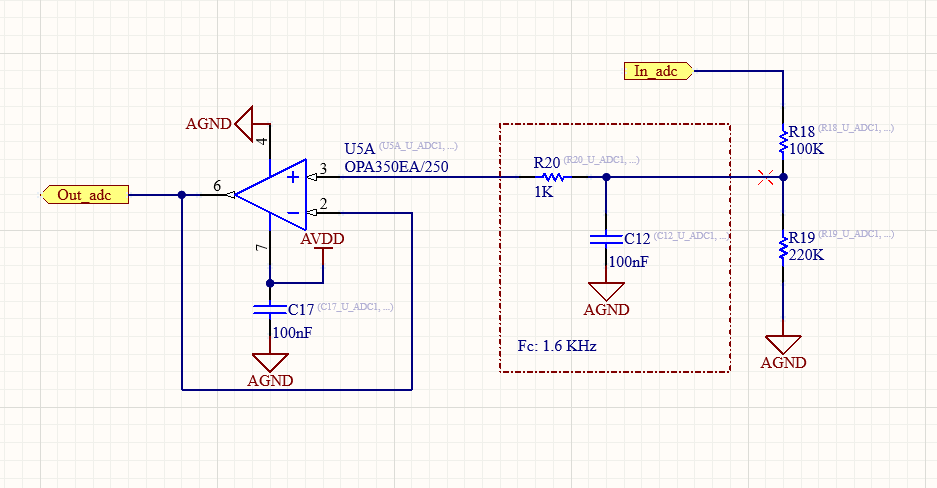
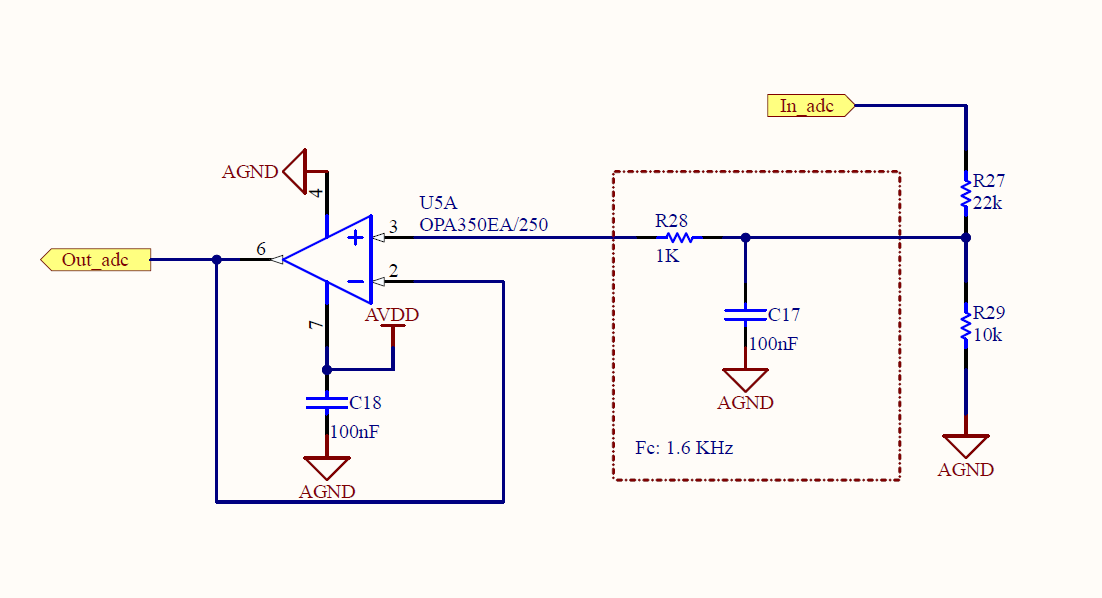
fix: corrige nombre del archivo de imagen del stackup

diff --git a/informe/main.tex b/informe/main.tex
@@ -275,20 +275,53 @@ El diseño físico y eléctrico de esta interfaz se fundamenta en las siguientes
     \item \textbf{Sensado de VBUS:} La línea VBUS se conecta al pin de entrada analógica/digital \texttt{PA9} del microcontrolador a través de una resistencia en serie de $10\text{ k}\Omega$. Aprovechando que el pin \texttt{PA9} es tolerante a $5\text{ V}$, esta resistencia actúa como un limitador de corriente para salvaguardar la entrada ante picos de tensión o transitorios en la línea de alimentación USB, permitiendo al firmware detectar la presencia del host y gestionar el stack de comunicaciones de forma dinámica.
 \end{enumerate}
 
+\subsubsection{Cálculo de Impedancia del Par Diferencial USB}
+
+Para asegurar la integridad de la señal en el bus de datos USB, hemos realizado el cálculo geométrico del par diferencial utilizando el motor de cálculo \textit{SIMBEOR} integrado en el gestor de pila de capas (\textit{Layer Stack Manager}) de Altium Designer. 
+
+\begin{figure}[H]
+    \centering
+    \includegraphics[width=0.75\linewidth]{Imagenes/diffPair_USB.png}
+    \caption{Cálculo y simulación de la impedancia diferencial para el bus USB en Altium Designer.}
+    \label{fig:diffpair_usb}
+\end{figure}
+
+Tomando como base la pila de capas de $1.6\text{ mm}$ de \textit{Lab Circuits}, los parámetros geométricos y eléctricos que definen el par diferencial de datos USB ($90\,\Omega$) se muestran en la Tabla~\ref{tab:usb_diffpair_params}:
+
+\begin{table}[H]
+\centering
+\small
+\begin{tabular}{|l|c|}
+\hline
+\textbf{Parámetro del Par Diferencial} & \textbf{Valor de Diseño} \\ \hline
+Impedancia Objetivo ($Z_{diff}$) & $90\,\Omega$ \\ \hline
+Tolerancia de Diseño & $15\%$ \\ \hline
+Ancho de Pista ($W1$ / $W2$) & $0.19\text{ mm}$ ($\approx 7.5\text{ mils}$) \\ \hline
+Separación de Pistas (Gap, $G$) & $0.15\text{ mm}$ ($\approx 6\text{ mils}$) \\ \hline
+Grosor de la Máscara de Soldadura ($C1$ / $C2$) & $0.0254\text{ mm}$ ($1\text{ mil}$) \\ \hline
+\textbf{Impedancia Diferencial Calculada ($Z_{diff}$)} & $\mathbf{94.91\,\Omega}$ \\ \hline
+Desviación de Impedancia Obtenida & $5.46\%$ (dentro de límites) \\ \hline
+Retardo de Propagación (Delay) & $5.90\text{ ns/m}$ \\ \hline
+\end{tabular}
+\caption{Parámetros de diseño calculados para el par diferencial USB de 90 Ohm.}
+\label{tab:usb_diffpair_params}
+\end{table}
+
 \subsubsection{Pines asignados para el puerto USB}
 
 El mapeo de pines entre el microcontrolador y el conector USB se detalla a continuación:
 
 \begin{table}[H]
 \centering
-\begin{tabular}{|c|c|l|l|}
+\small
+\begin{tabularx}{\textwidth}{|c|c|l|X|}
 \hline
 \textbf{Señal} & \textbf{Pin MCU} & \textbf{Señal Lógica} & \textbf{Función del Periférico} \\ \hline
 USB\_VBUS & PA9 & OTG\_FS\_VBUS & Entrada de detección de presencia de tensión de VBUS \\ \hline
 USB\_ID & PA10 & OTG\_FS\_ID & Línea de detección de modo Host/Device (OTG) \\ \hline
 USB\_DM & PA11 & OTG\_FS\_DM & Línea de datos diferencial negativa (D-) \\ \hline
 USB\_DP & PA12 & OTG\_FS\_DP & Línea de datos diferencial positiva (D+) \\ \hline
-\end{tabular}
+\end{tabularx}
 \caption{Asignación de pines para la interfaz Micro-USB.}
 \label{tab:usb_pines}
 \end{table}
@@ -393,7 +426,7 @@ La PCB consta de 4 capas, 2 para señales (top y bottom) y 2 para alimentaciones
 
 \begin{figure}[H]
     \centering
-    \includegraphics[width=1\linewidth]{Imagenes/Stak-up.png}
+    \includegraphics[width=1\linewidth]{Imagenes/Captura_stackup.png}
     \caption{Propuesta de Stack-Up 4 capas}
     \label{fig:stackup}
 \end{figure}
